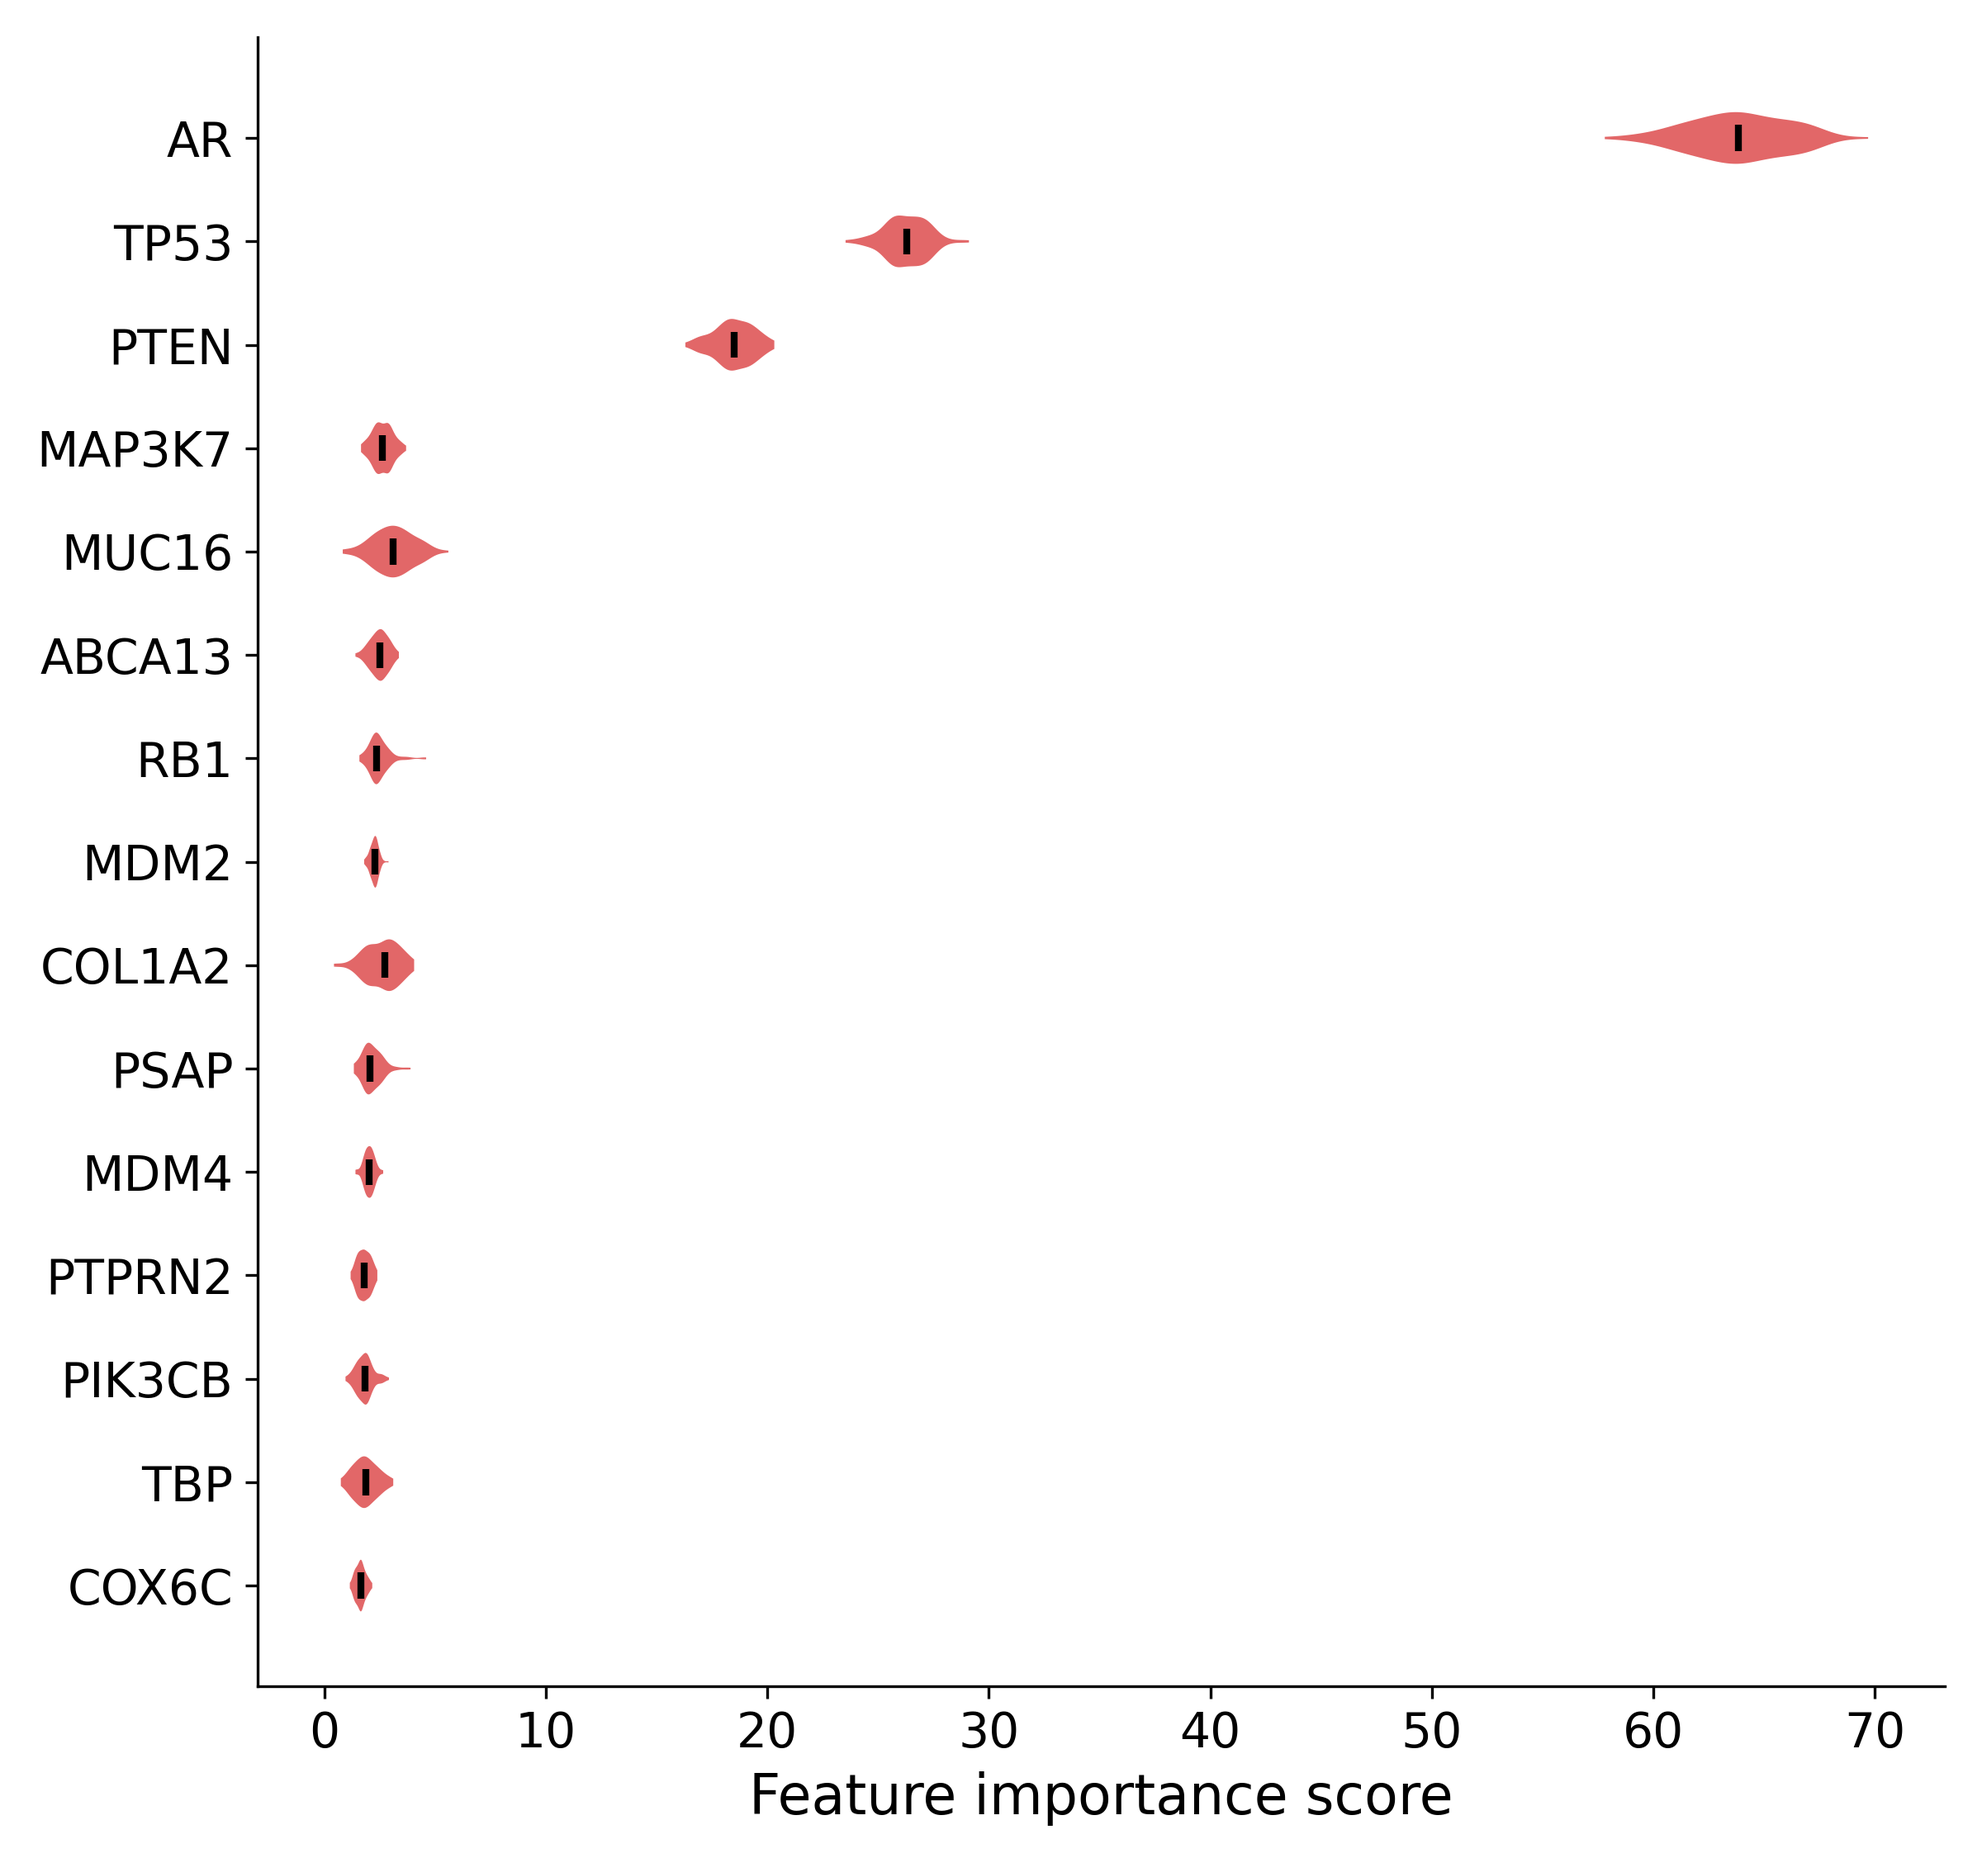
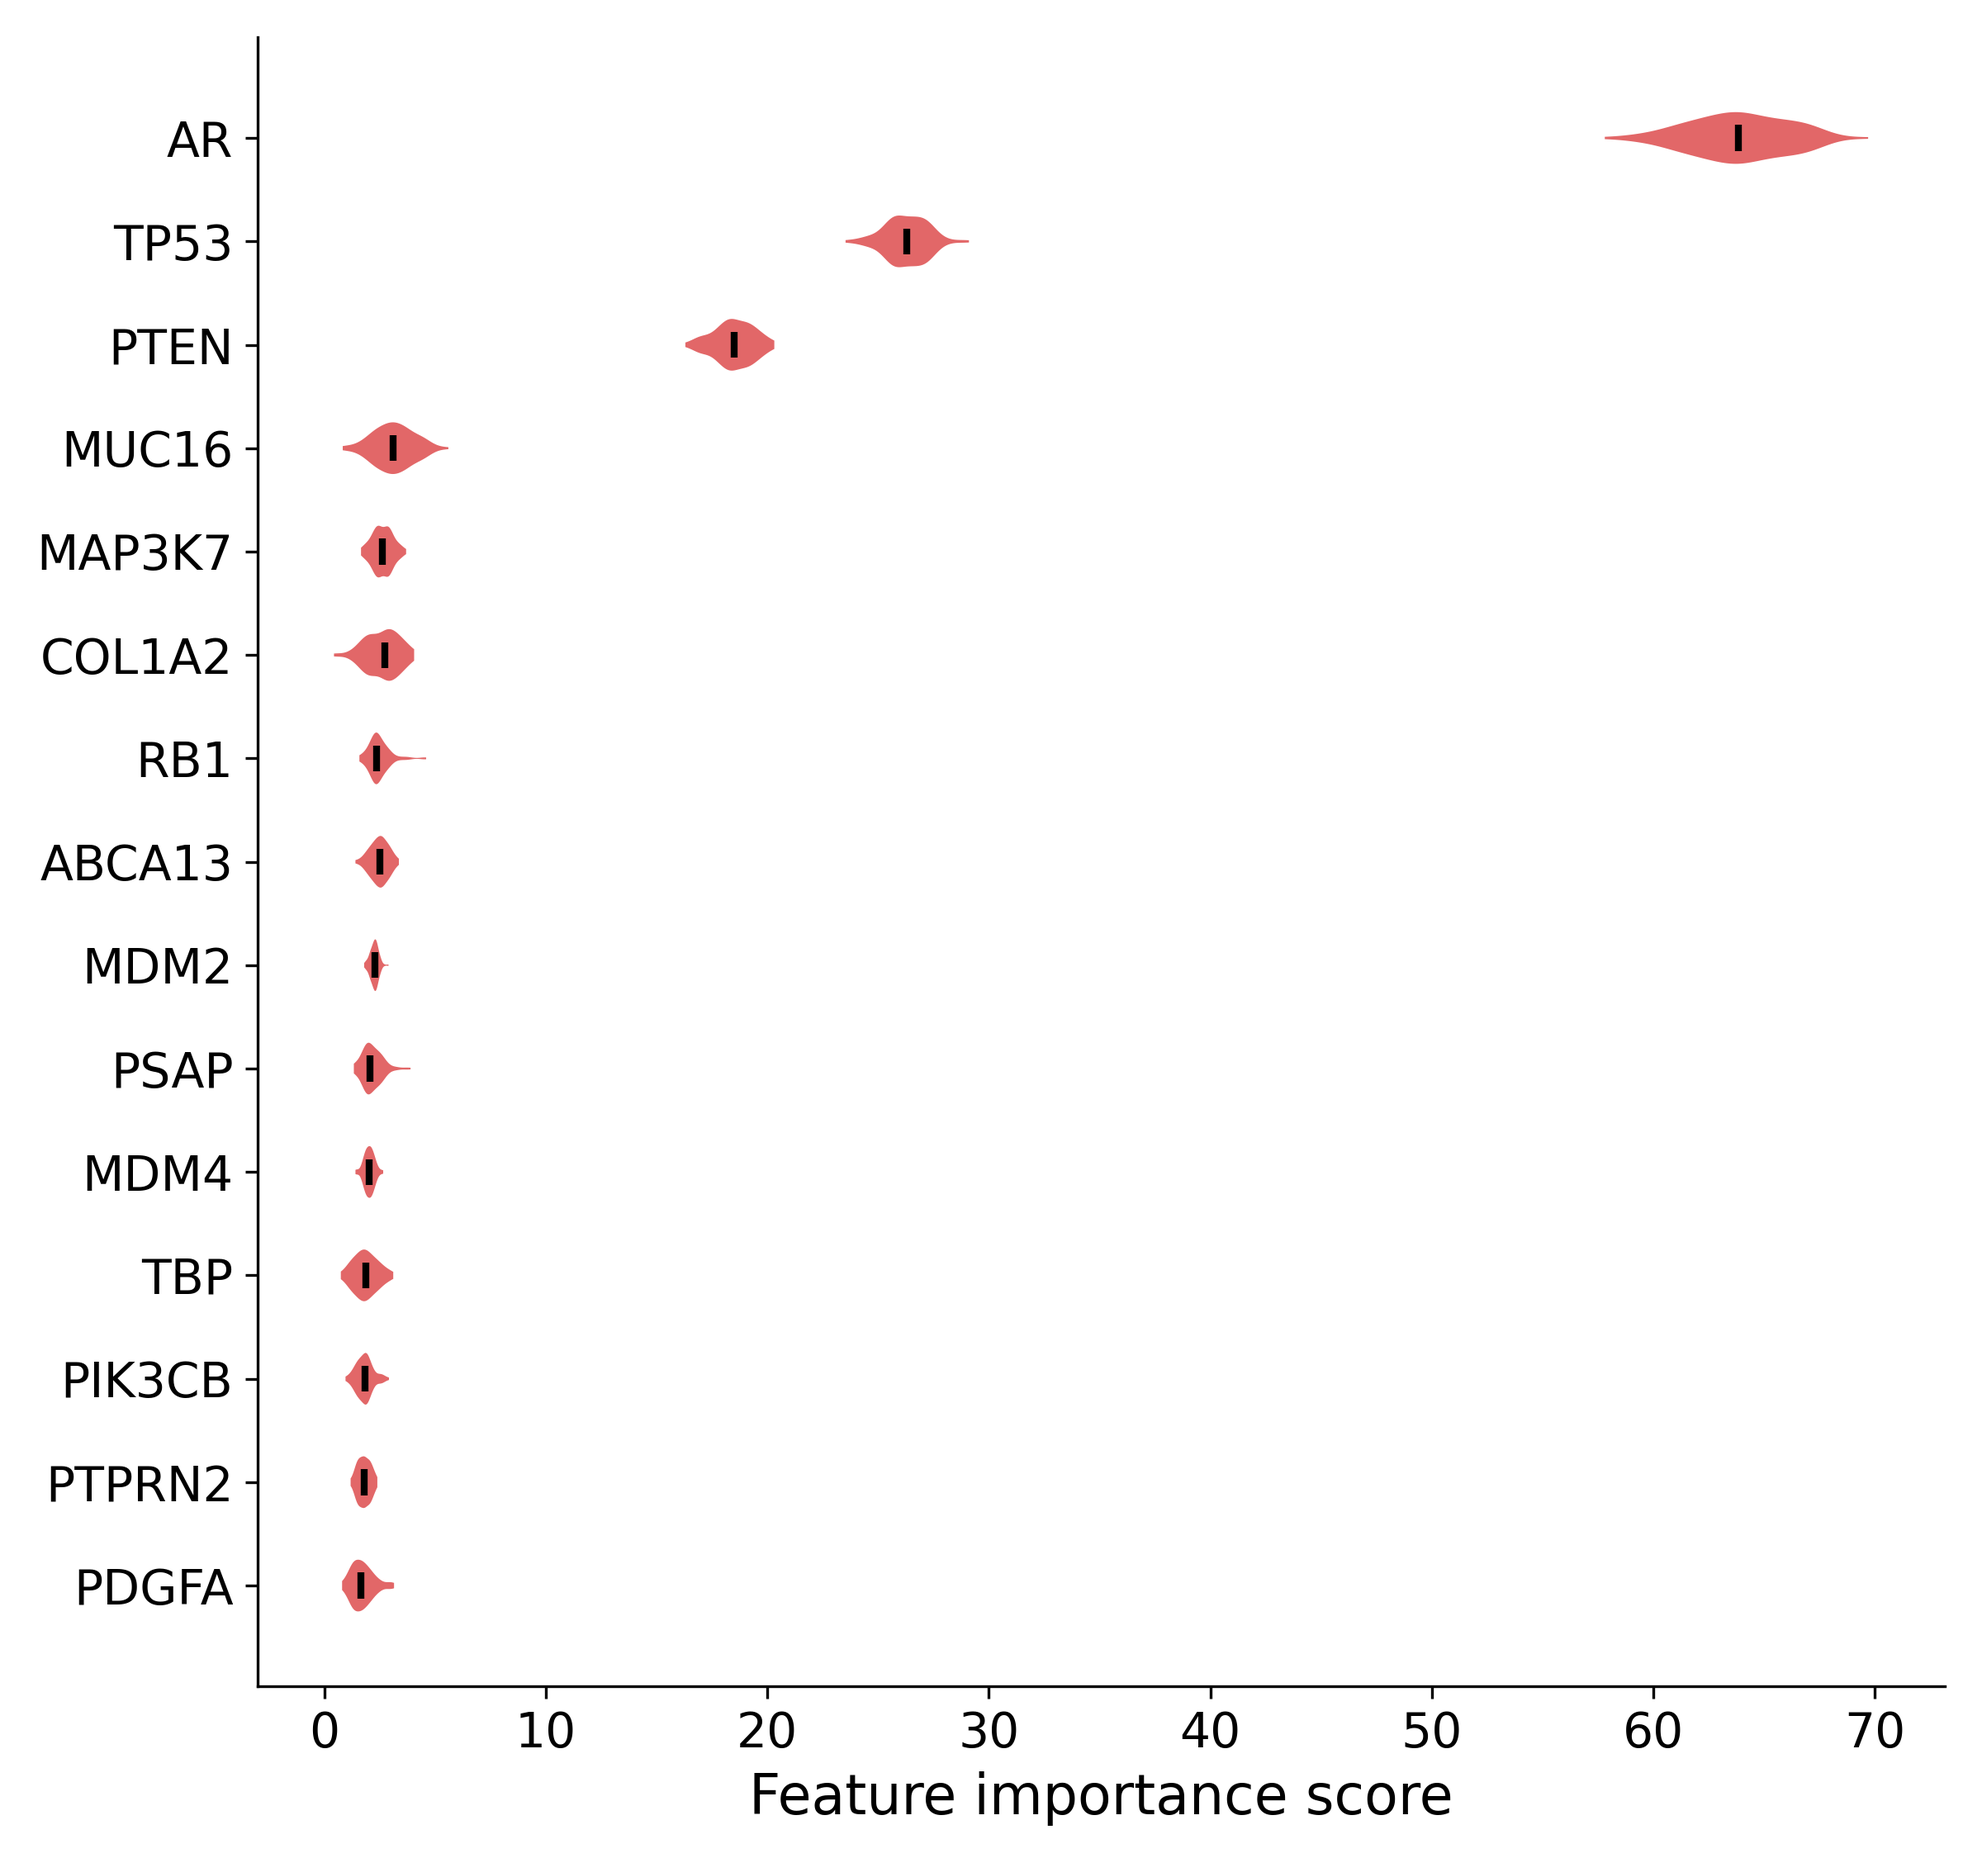
plotting

diff --git a/prostate_cancer_prediction/run.py b/prostate_cancer_prediction/run.py
@@ -182,13 +182,13 @@ def run():
     #plot_network_order_variation(run_dir, figures_dir, run_prefix="pnet_network_order_variation", split="test")
 
     # Feature-importance stability across the network-order variation runs
-    # analyse_importance_stability(
-    #     run_dir, figures_dir, n_hidden_layers,
-    #     run_id="pnet_network_order_variation",
-    #     fold_dirs=[f"{run_dir}/pnet_network_order_variation_{i}"
-    #                for i in range(len(pnet_network_order_variation_configs))],
-    #     unit="run",
-    #     pathway_names="architecture/Reactome/ReactomePathways.txt")
+    analyse_importance_stability(
+        run_dir, figures_dir, n_hidden_layers,
+        run_id="pnet_network_order_variation",
+        fold_dirs=[f"{run_dir}/pnet_network_order_variation_{i}"
+                   for i in range(len(pnet_network_order_variation_configs))],
+        unit="run",
+        pathway_names="architecture/Reactome/ReactomePathways.txt")
 
     # Feature-importance stability (each run writes to its own subdirectory under
     analyse_importance_stability(

diff --git a/prostate_cancer_prediction/plotting/plot_importance_stability.py b/prostate_cancer_prediction/plotting/plot_importance_stability.py
@@ -143,8 +143,8 @@ def _plot_topk_membership(table, display, top_k, out_dir, label_col=None, top_n=
 
 
 def _plot_top_importance(wide, table, display, top_n, out_dir, label_col=None, unit="fold"):
-    """Save a violin plot of importance score distributions for the top-N features by mean rank."""
-    top = table.sort_values("mean_rank", ascending=True).head(top_n)
+    """Save a violin plot of importance score distributions for the top-N features by mean importance score."""
+    top = table.sort_values("mean_importance", ascending=False).head(top_n)
     feats = list(top.index)
     label_of = dict(zip(feats, list(top[label_col]) if label_col else feats))
 
